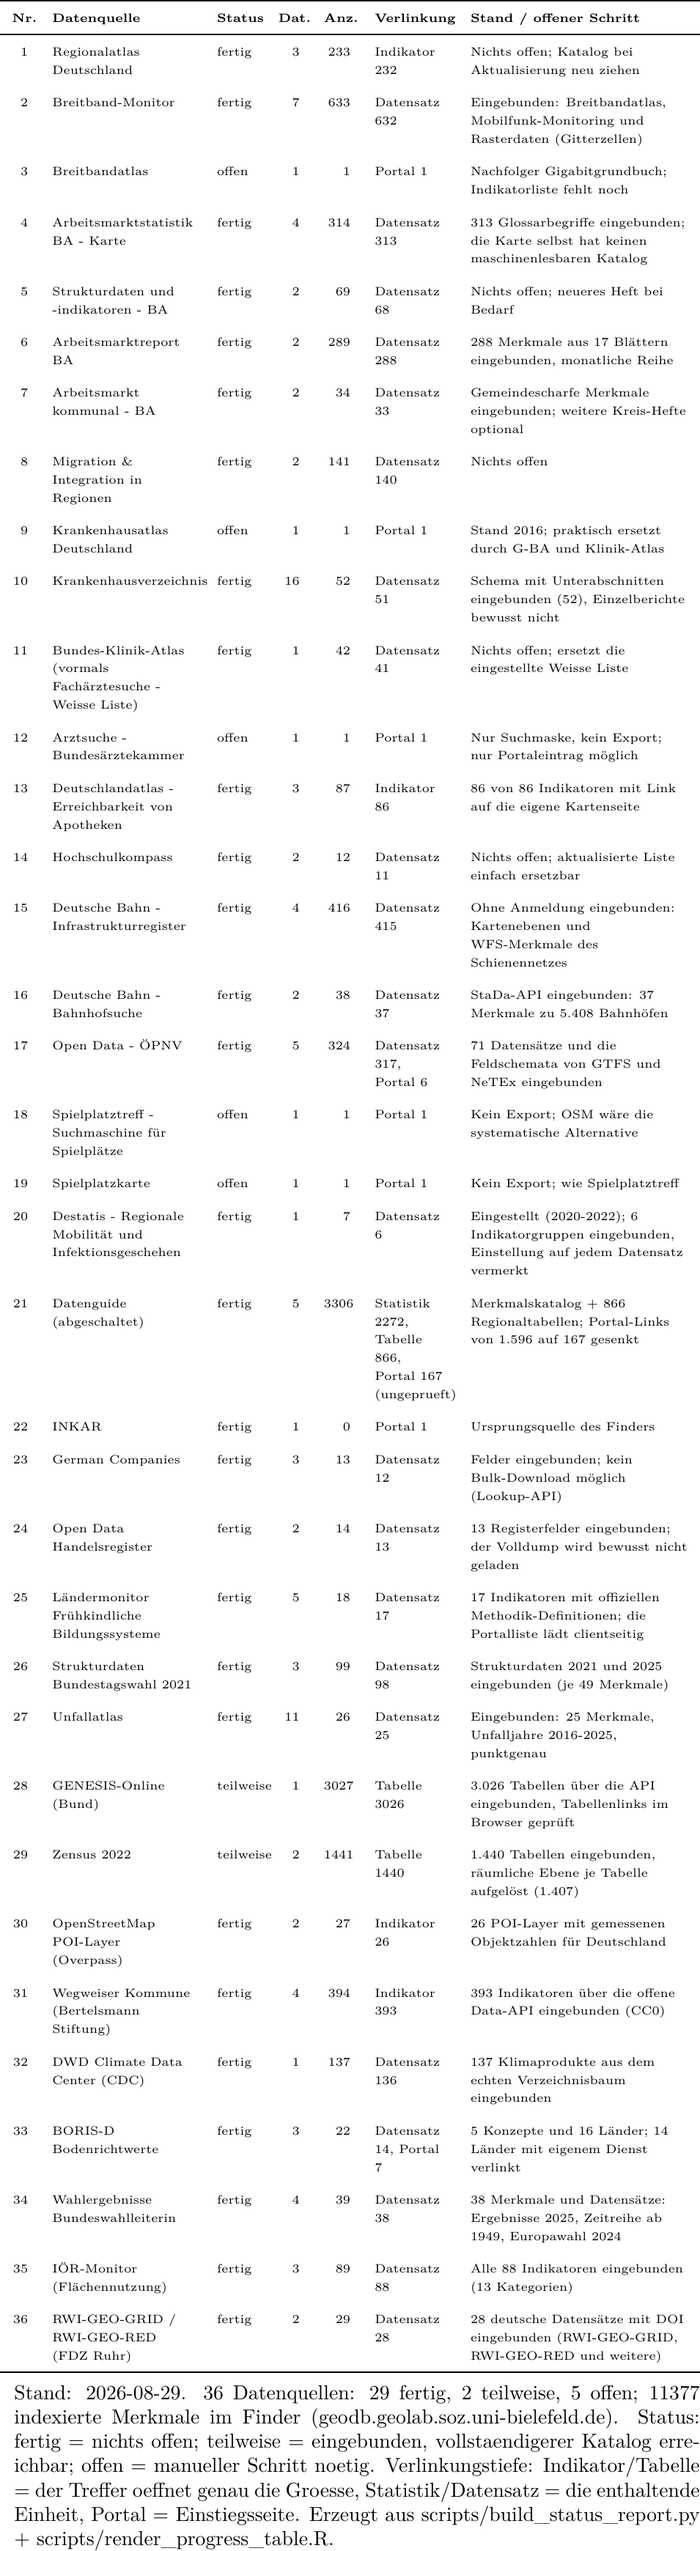
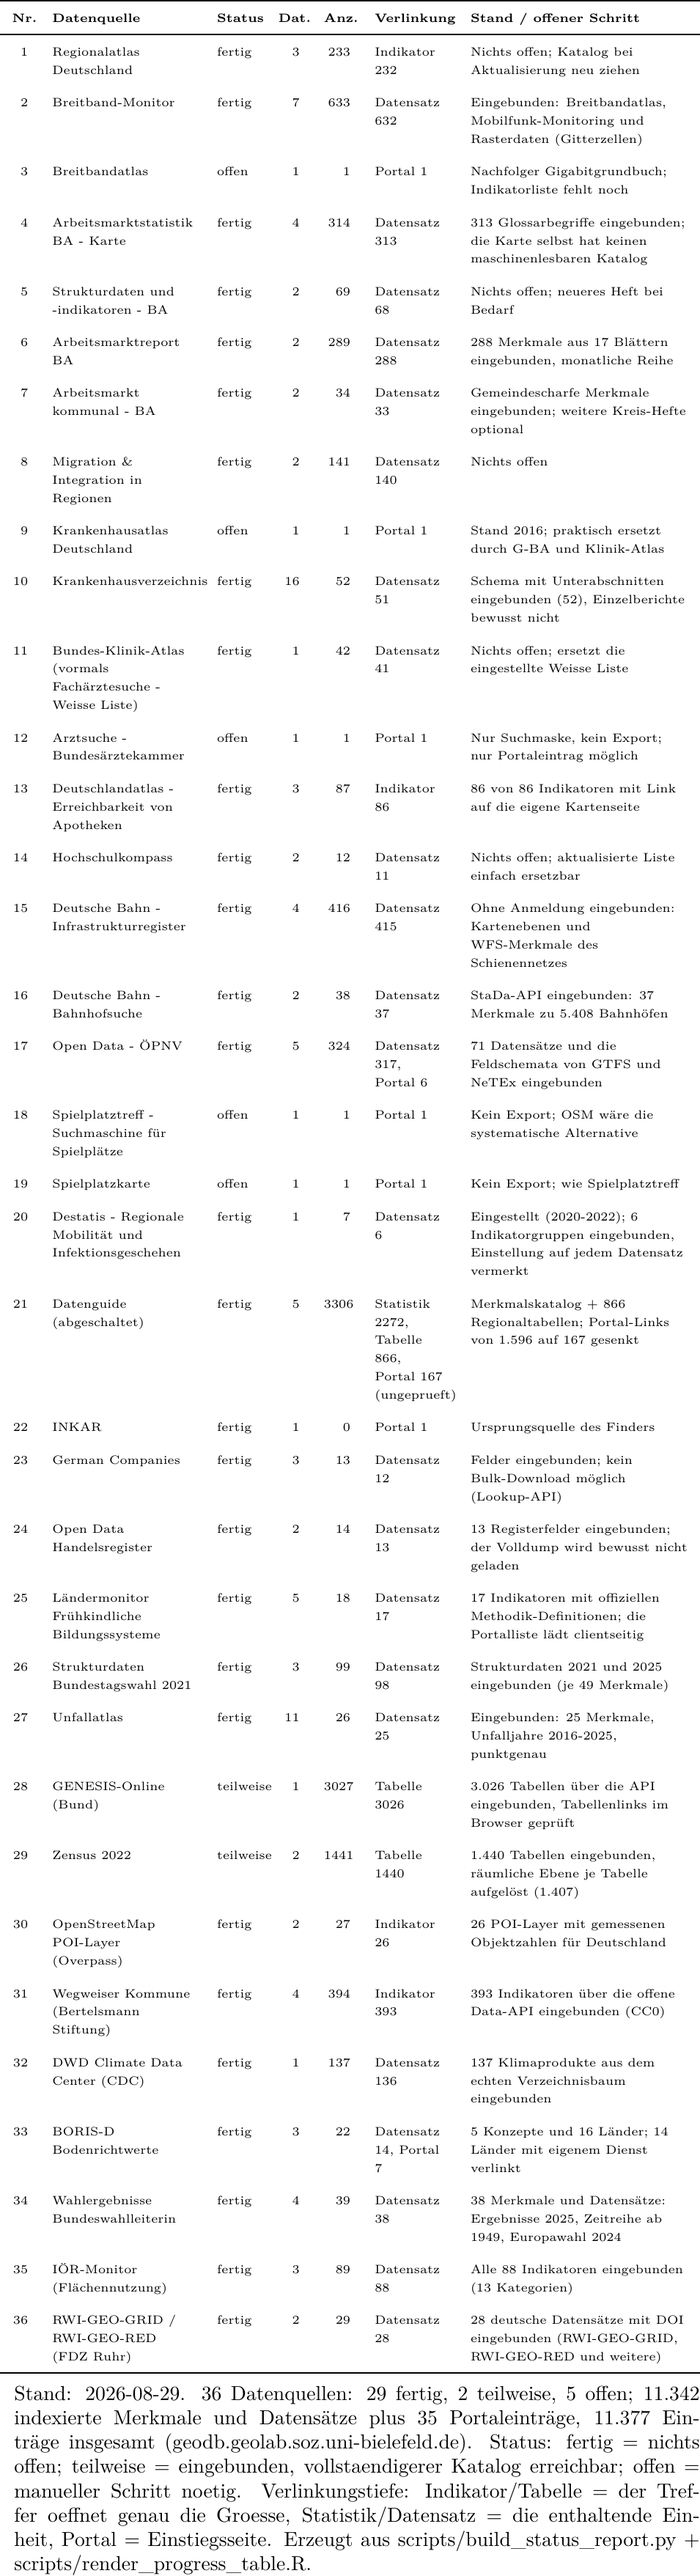
Refresh the deliverables and make the two totals agree
The handoff sheet and the German progress table quoted different totals for the
same fact, because one counted the 35 portal cards and the other did not. Both
now name the parts: 11,342 indicator-level records plus 35 portal cards, 11,377
entries in total.

Regenerated against the current index (12,037 rows served, 29 done / 2 partial /
5 open of 36 sources): the checklist, the blue Status_GeoDB sheet, the dated
German workbook, the CSV/PDF/PNG progress table and the public data-source list
on the GeoLAB site. The superseded 2026-08-27 workbook is removed from the clean
folder so there is one current file to hand over rather than two.

diff --git a/scripts/build_status_report.py b/scripts/build_status_report.py
@@ -421,10 +421,12 @@ def write_deliverable_workbook(rows: List[Dict[str, Any]], stamp: str) -> Option
     # German thousands separator on the number only: replacing every comma in the sentence
     # turned "26 fertig, 5 teilweise" into "26 fertig. 5 teilweise".
     indexed_de = f"{indexed:,}".replace(",", ".")
+    entries_de = f"{indexed + len(rows):,}".replace(",", ".")
     intro = (
         f"Stand der Einbindung in den GeoDB-Finder (geodb.geolab.soz.uni-bielefeld.de), "
         f"Stand {stamp}. {len(rows)} Quellen: {done} fertig, {partial} teilweise, {open_} offen; "
-        f"{indexed_de} indexierte Merkmale und Datensätze plus je ein Portaleintrag. "
+        f"{indexed_de} indexierte Merkmale und Datensätze plus je ein Portaleintrag, "
+        f"{entries_de} Einträge insgesamt. "
         "Maschinell erzeugt von scripts/build_status_report.py. Alles auf diesem Blatt wurde "
         "vom Assistenten ergänzt (blau); das Originalblatt Tabelle1 ist unverändert, ergänzt "
         "nur um die neu aufgenommenen Quellen (ebenfalls blau)."
@@ -521,9 +523,17 @@ def write_progress_table(rows: List[Dict[str, Any]], stamp: str) -> Optional[Pat
     done = sum(1 for r in rows if r["state"] == "done")
     partial = sum(1 for r in rows if r["state"] == "partial")
     open_count = sum(1 for r in rows if r["state"] == "open")
-    total = sum(r["indexed"] + r["portal_record"] for r in rows)
+    # The sheet and this table used to quote different totals for one fact (one counted the
+    # portal cards, the other did not), which is how a handoff document ends up with two
+    # numbers for the same thing. Both now name the two parts explicitly.
+    indicators = sum(r["indexed"] for r in rows)
+    portals = sum(r["portal_record"] for r in rows)
+    indicators_de = f"{indicators:,}".replace(",", ".")
+    entries_total_de = f"{indicators + portals:,}".replace(",", ".")
     summary = (f"{len(rows)} Datenquellen: {done} fertig, {partial} teilweise, {open_count} offen; "
-               f"{total} indexierte Merkmale im Finder (geodb.geolab.soz.uni-bielefeld.de).")
+               f"{indicators_de} indexierte Merkmale und Datensätze plus {portals} Portaleinträge, "
+               f"{entries_total_de} Einträge insgesamt "
+               "(geodb.geolab.soz.uni-bielefeld.de).")
 
     rscript = shutil.which("Rscript") or "/home/researcher/miniconda3/envs/rstats/bin/Rscript"
     # The rstats env ships libfontconfig.so.1 but the loader does not look there unless told,

diff --git a/CLAUDE.md b/CLAUDE.md
@@ -45,16 +45,28 @@ pass-through `_normalise_geodb_row`. The schema is defined by example in `_norma
 `theme`, `spatial_levels`, `nuts_levels`, `year_start`/`year_end`, `available_years_text`,
 `search_description`, `source_url`, `indicator_url`, `api_hint`, `embedding_context`.
 
-State as of 2026-08-27 (evening): **live at <https://geodb.geolab.soz.uni-bielefeld.de/> with
-11,567 rows** (10,907 GeoDB records + 660 INKAR) from **36 workbook rows, 30 of which carry real
-records**. Largest: Regionalstatistik/GENESIS 3,305, GENESIS-Online Bund 3,026, Zensus 2022 1,440,
-Gigabit-Grundbuch 632, DB ISR 415, BA-Glossar 313, BA Arbeitsmarktreport 288, GTFS/NeTEx 246,
-Regionalatlas 232, Migration & Integration 141, DWD Klimadaten 137, Strukturdaten BTW 2021+2025 98,
-Deutschlandatlas 86 (83 with a link to their own map page), Open Data ÖPNV 78, BA Strukturdaten 68, G-BA 52, Bundes-Klinik-Atlas 42,
-Wahlergebnisse 38, DB StaDa 37, BA Arbeitsmarkt kommunal 34, FDZ Ruhr 28, OSM POI-Layer 26,
-Unfallatlas 26, BORIS-D 21, Ländermonitor 18, offeneregister 13, Hochschulkompass 12, IÖR-Monitor 7,
-Destatis Mobilität 6, Wegweiser Kommune 4. Tracker: 26 done, 5 partial, 5 open.
-Retrieval gate 2026-08-27: **58 queries, hit@1 53, hit@3 57, hit@10 58, no misses.**
+State as of 2026-08-29: **live at <https://geodb.geolab.soz.uni-bielefeld.de/> with 12,037 rows**
+(11,377 GeoDB records + 660 INKAR) from **36 workbook rows, 31 of which carry real records**.
+Tracker: **29 done, 2 partial, 5 open**. Largest: Regionalstatistik/GENESIS 3,306,
+GENESIS-Online Bund 3,027, Zensus 2022 1,441, Gigabit-Grundbuch 633, DB ISR 416,
+Wegweiser Kommune 393, BA-Glossar 314, BA Arbeitsmarktreport 289, Open Data ÖPNV 324,
+Regionalatlas 233, Migration & Integration 141, DWD Klimadaten 137, Strukturdaten BTW 99,
+IÖR-Monitor 89, Deutschlandatlas 87, BA Strukturdaten 69, G-BA 52, Bundes-Klinik-Atlas 42,
+Wahlergebnisse 39, DB StaDa 38, BA Arbeitsmarkt kommunal 34, FDZ Ruhr 29, OSM POI-Layer 27,
+Unfallatlas 26, BORIS-D 22, Ländermonitor 18, offeneregister 14, Hochschulkompass 12,
+Destatis Mobilität 7.
+
+**Link precision is the quality number to watch**, and it moved most on 2026-08-29: 5,332 records
+open the exact table, 2,821 the dataset, 2,272 the statistic, 737 the indicator itself, and only
+**180 land on a portal** where the reader still has to search. It was 1,630 portal-level in the
+morning; `scripts/resolve_merkmal_statistics.py` resolved 1,429 of the 1,596 Regionalstatistik
+Merkmale that had no statistic code in their definition text, by asking
+`catalogue/statistics2variable` once per Merkmal.
+
+Retrieval gates 2026-08-29 (both run on CPU with the production reranker settings):
+GeoDB **58 queries, hit@1 55, hit@3 58, hit@10 58, no misses**; SOEP **59 queries, hit@1 49,
+hit@3 55, hit@10 59, no misses**. The SOEP gate (`scripts/eval_soep_search.py`) is new: the finder
+had none, so no change to it could be told apart from a regression.
 
 **Both finders are bilingual.** `frontend/src/i18n.js` holds the German and English interface text
 and a `makeTranslator(lang)` helper; German is the default whenever the browser asks for it, and
